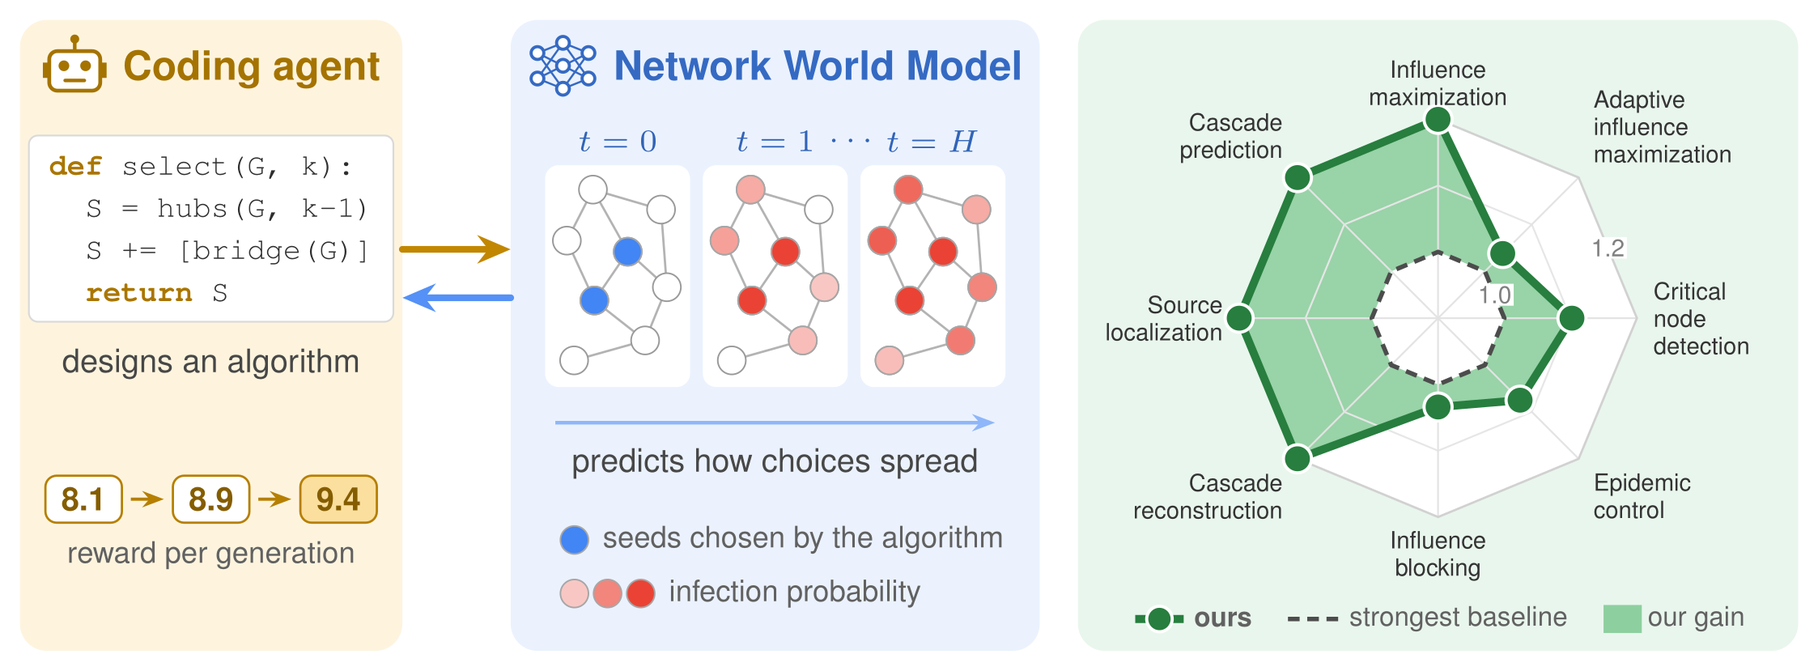
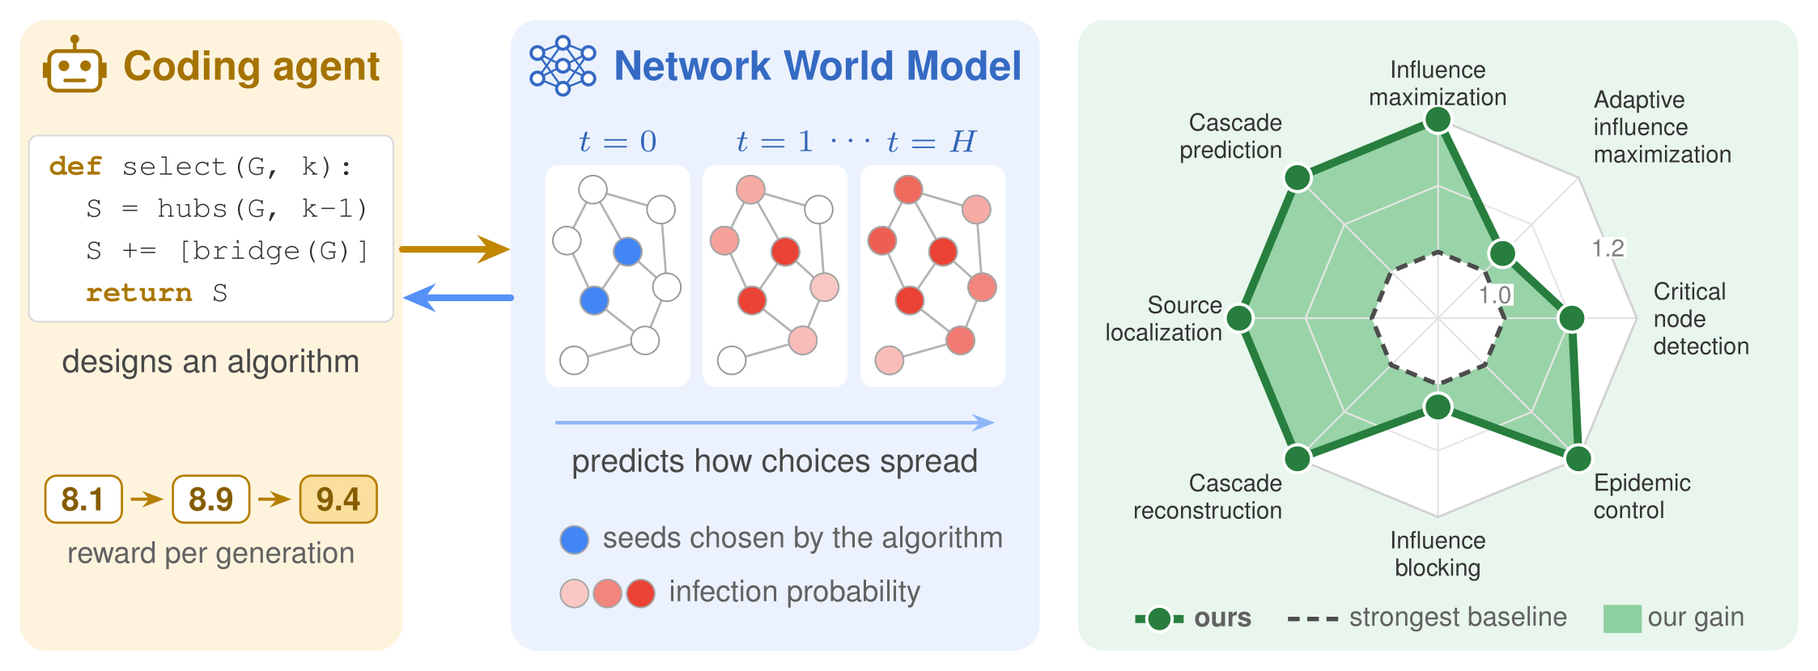
Update

Changed region(s): [[0.7792, 0.4825, 0.8727, 0.6936]]

diff --git a/index.html b/index.html
@@ -101,7 +101,7 @@
     "url": "https://rishabsa.github.io/NetworkWorldModel/",
     "image": "https://rishabsa.github.io/NetworkWorldModel/static/images/social_preview.png",
     "keywords": ["network world models", "automated algorithm design", "network learning", "diffusion dynamics"],
-    "abstract": "World models, which simulate an environment and predict how it changes under actions, are increasingly used in real-world applications such as robotics. Complex systems call for the same tool because the effect of an action is not immediate. Seeding nodes for a campaign, or immunizing nodes against an epidemic, changes little on its own; what matters is the outcome that unfolds over the steps that follow. Designing an algorithm that selects such actions to maximize expected performance on a task is inherently iterative, and every candidate must be scored by the outcome it produces. Obtaining that outcome has relied on simulation, whose cost becomes a bottleneck when candidates are evaluated over many sampled trajectories. We propose an action-conditioned Network World Model that learns a network's diffusion dynamics under interventions over time, applies each action to the network, and predicts the outcome that follows. It serves as a fast evaluator inside an algorithm design loop in which a coding agent designs and refines executable algorithms using feedback from full rollouts, action-level credit, and counterfactual probes over alternative interventions. Across eight network tasks and five diffusion models, the designed algorithms match or exceed the strongest reported baseline in 118 of 121 settings while enabling up to 14.5 times faster rollouts than Monte Carlo simulation.",
+    "abstract": "World models, which simulate an environment and predict how it changes under actions, are increasingly used in real-world applications such as robotics. Complex systems call for the same tool because the effect of an action is not immediate. Seeding nodes for a campaign, or immunizing nodes against an epidemic, changes little on its own; what matters is the outcome that unfolds over the steps that follow. Designing an algorithm that selects such actions to maximize expected performance on a task is inherently iterative, and every candidate must be scored by the outcome it produces. Obtaining that outcome has relied on simulation, whose cost becomes a bottleneck when candidates are evaluated over many sampled trajectories. We propose an action-conditioned Network World Model that learns a network's diffusion dynamics under interventions over time, applies each action to the network, and predicts the outcome that follows. It serves as a fast evaluator inside an algorithm design loop in which a coding agent designs and refines executable algorithms using feedback from full rollouts, action-level credit, and counterfactual probes over alternative interventions. Across eight network tasks and five diffusion models, the designed algorithms match or exceed the strongest reported baseline in 138 of 141 settings while enabling up to 14.5 times faster rollouts than Monte Carlo simulation.",
     "isAccessibleForFree": true
   }
   </script>
@@ -201,7 +201,7 @@
         <div class="column is-four-fifths">
           <h2 class="title is-3">Abstract</h2>
           <div class="content has-text-justified">
-            <p>World models, which simulate an environment and predict how it changes under actions, are increasingly used in real-world applications such as robotics. Complex systems call for the same tool because the effect of an action is not immediate. Seeding nodes for a campaign, or immunizing nodes against an epidemic, changes little on its own; what matters is the outcome that unfolds over the steps that follow. Designing an algorithm that selects such actions to maximize expected performance on a task is inherently iterative, and every candidate must be scored by the outcome it produces. Obtaining that outcome has relied on simulation, whose cost becomes a bottleneck when candidates are evaluated over many sampled trajectories. We propose an action-conditioned Network World Model that learns a network's diffusion dynamics under interventions over time, applies each action to the network, and predicts the outcome that follows. It serves as a fast evaluator inside an algorithm design loop in which a coding agent designs and refines executable algorithms using feedback from full rollouts, action-level credit, and counterfactual probes over alternative interventions. Across eight network tasks and five diffusion models, the designed algorithms match or exceed the strongest reported baseline in 118 of 121 settings while enabling up to 14.5 times faster rollouts than Monte Carlo simulation.</p>
+            <p>World models, which simulate an environment and predict how it changes under actions, are increasingly used in real-world applications such as robotics. Complex systems call for the same tool because the effect of an action is not immediate. Seeding nodes for a campaign, or immunizing nodes against an epidemic, changes little on its own; what matters is the outcome that unfolds over the steps that follow. Designing an algorithm that selects such actions to maximize expected performance on a task is inherently iterative, and every candidate must be scored by the outcome it produces. Obtaining that outcome has relied on simulation, whose cost becomes a bottleneck when candidates are evaluated over many sampled trajectories. We propose an action-conditioned Network World Model that learns a network's diffusion dynamics under interventions over time, applies each action to the network, and predicts the outcome that follows. It serves as a fast evaluator inside an algorithm design loop in which a coding agent designs and refines executable algorithms using feedback from full rollouts, action-level credit, and counterfactual probes over alternative interventions. Across eight network tasks and five diffusion models, the designed algorithms match or exceed the strongest reported baseline in 138 of 141 settings while enabling up to 14.5 times faster rollouts than Monte Carlo simulation.</p>
           </div>
         </div>
       </div>
@@ -215,7 +215,7 @@
       <h2 class="title is-3 has-text-centered">Key Results</h2>
       <div class="stat-grid">
         <div class="stat-card">
-          <div class="stat-value">118<span class="stat-of">/121</span></div>
+          <div class="stat-value">138<span class="stat-of">/141</span></div>
           <div class="stat-label">settings where the designed algorithm matches or exceeds the strongest reported baseline</div>
         </div>
         <div class="stat-card">
@@ -384,7 +384,7 @@
       </div>
 
       <details class="datasets-details">
-        <summary>Datasets: 17 networks, from 1,005 to 616,316 nodes</summary>
+        <summary>Datasets: 20 networks, from 1,005 to 616,316 nodes</summary>
         <div class="table-scroll">
           <table class="results-table datasets-table">
             <thead>
@@ -401,9 +401,12 @@
               <tr><td>PGP</td><td>10,680</td><td>24,316</td><td>Critical node detection</td></tr>
               <tr><td>Infectious SocioPatterns</td><td>10,972</td><td>44,517</td><td>Epidemic control</td></tr>
               <tr><td>NetHEPT</td><td>15,229</td><td>62,752</td><td>Influence maximization, adaptive influence maximization</td></tr>
+              <tr><td>RT-Pol</td><td>18,470</td><td>48,053</td><td>Cascade reconstruction</td></tr>
               <tr><td>Gnutella24</td><td>26,518</td><td>65,369</td><td>Influence blocking</td></tr>
+              <tr><td>Cit-HepTh</td><td>27,769</td><td>352,768</td><td>Influence blocking</td></tr>
               <tr><td>Taoke</td><td>29,711</td><td>95,012</td><td>Cascade prediction</td></tr>
               <tr><td>Deezer</td><td>47,538</td><td>222,887</td><td>Source localization</td></tr>
+              <tr><td>Brightkite</td><td>58,228</td><td>214,078</td><td>Epidemic control</td></tr>
               <tr><td>Gnutella31</td><td>62,561</td><td>147,878</td><td>Critical node detection</td></tr>
               <tr><td>Digg</td><td>116,893</td><td>2,011,447</td><td>Influence maximization, adaptive influence maximization</td></tr>
               <tr><td>Digg (cascades)</td><td>279,630</td><td>1,731,653</td><td>Cascade prediction</td></tr>
@@ -430,7 +433,7 @@
       <h3 class="title is-4 subsection-title">Designed algorithms against the strongest baselines</h3>
       <div class="content">
         <p>
-          The designed algorithms improve on the strongest existing method in seven tasks and match it on epidemic control, matching or exceeding the strongest reported baseline in 118 of 121 settings. Each cell reports IC&nbsp;/&nbsp;LT (IC&nbsp;/&nbsp;CLT for influence blocking, SIR&nbsp;/&nbsp;SIS for epidemic control). Bold marks the best value, and n/a marks an out-of-memory error or a timeout.
+          The designed algorithms improve on the strongest existing method in all eight tasks and match or exceed the strongest reported baseline in 138 of 141 settings. Each cell reports IC&nbsp;/&nbsp;LT (IC&nbsp;/&nbsp;CLT for influence blocking, SIR&nbsp;/&nbsp;SIS for epidemic control). Bold marks the best value, and n/a marks an out-of-memory error or a timeout.
         </p>
       </div>
       <div class="results-tabs">
@@ -524,16 +527,16 @@
   <div class="table-scroll">
     <table class="results-table">
       <thead>
-        <tr><th></th><th colspan="4" class="group-head">Infectious SocioPatterns (10,972 nodes)</th><th colspan="4" class="group-head">Oregon1 (10,670 nodes)</th></tr>
-        <tr><th>Method</th><th>1%</th><th>5%</th><th>10%</th><th>20%</th><th>1%</th><th>5%</th><th>10%</th><th>20%</th></tr>
+        <tr><th></th><th colspan="4" class="group-head">Infectious SocioPatterns (10,972 nodes)</th><th colspan="4" class="group-head">Oregon1 (10,670 nodes)</th><th colspan="4" class="group-head">Brightkite (58,228 nodes)</th></tr>
+        <tr><th>Method</th><th>1%</th><th>5%</th><th>10%</th><th>20%</th><th>1%</th><th>5%</th><th>10%</th><th>20%</th><th>1%</th><th>5%</th><th>10%</th><th>20%</th></tr>
       </thead>
       <tbody>
-        <tr><td>DAVA</td><td><strong>19.9</strong><span class="pair-sep">/</span>23.0</td><td><strong>7.4</strong><span class="pair-sep">/</span>8.3</td><td><strong>1.0</strong><span class="pair-sep">/</span><strong>1.0</strong></td><td><strong>1.0</strong><span class="pair-sep">/</span><strong>1.0</strong></td><td>7.9<span class="pair-sep">/</span>9.6</td><td><strong>1.0</strong><span class="pair-sep">/</span><strong>1.0</strong></td><td><strong>1.0</strong><span class="pair-sep">/</span><strong>1.0</strong></td><td><strong>1.0</strong><span class="pair-sep">/</span><strong>1.0</strong></td></tr>
-        <tr><td>NetShield+</td><td>21.2<span class="pair-sep">/</span>24.9</td><td>17.3<span class="pair-sep">/</span>20.6</td><td>12.8<span class="pair-sep">/</span>15.6</td><td>7.4<span class="pair-sep">/</span>8.9</td><td>4.3<span class="pair-sep">/</span>5.4</td><td>2.1<span class="pair-sep">/</span>2.3</td><td>1.8<span class="pair-sep">/</span>1.9</td><td>1.6<span class="pair-sep">/</span>1.7</td></tr>
-        <tr><td>GreedyWalk</td><td>20.9<span class="pair-sep">/</span>24.6</td><td>16.5<span class="pair-sep">/</span>19.8</td><td>12.3<span class="pair-sep">/</span>14.9</td><td>7.0<span class="pair-sep">/</span>8.5</td><td>4.8<span class="pair-sep">/</span>5.9</td><td>2.5<span class="pair-sep">/</span>2.8</td><td>1.9<span class="pair-sep">/</span>2.1</td><td>1.6<span class="pair-sep">/</span>1.7</td></tr>
-        <tr><td>EI</td><td>20.7<span class="pair-sep">/</span>24.4</td><td>16.3<span class="pair-sep">/</span>19.3</td><td>11.5<span class="pair-sep">/</span>13.6</td><td>8.1<span class="pair-sep">/</span>9.5</td><td>4.2<span class="pair-sep">/</span>5.2</td><td>2.0<span class="pair-sep">/</span>2.1</td><td>1.7<span class="pair-sep">/</span>1.8</td><td>1.6<span class="pair-sep">/</span>1.6</td></tr>
-        <tr><td>CI</td><td>20.7<span class="pair-sep">/</span>24.3</td><td>16.1<span class="pair-sep">/</span>18.9</td><td>12.4<span class="pair-sep">/</span>14.6</td><td>6.9<span class="pair-sep">/</span>8.1</td><td>4.2<span class="pair-sep">/</span>5.2</td><td>2.0<span class="pair-sep">/</span>2.1</td><td>1.7<span class="pair-sep">/</span>1.8</td><td>1.6<span class="pair-sep">/</span>1.6</td></tr>
-        <tr class="ours"><td>Network World Model</td><td>20.4<span class="pair-sep">/</span><strong>19.5</strong></td><td>12.2<span class="pair-sep">/</span><strong>4.1</strong></td><td><strong>1.0</strong><span class="pair-sep">/</span><strong>1.0</strong></td><td><strong>1.0</strong><span class="pair-sep">/</span><strong>1.0</strong></td><td><strong>2.4</strong><span class="pair-sep">/</span><strong>4.3</strong></td><td><strong>1.0</strong><span class="pair-sep">/</span><strong>1.0</strong></td><td><strong>1.0</strong><span class="pair-sep">/</span><strong>1.0</strong></td><td><strong>1.0</strong><span class="pair-sep">/</span><strong>1.0</strong></td></tr>
+        <tr><td>DAVA</td><td><strong>19.9</strong><span class="pair-sep">/</span>23.0</td><td><strong>7.4</strong><span class="pair-sep">/</span>8.3</td><td><strong>1.0</strong><span class="pair-sep">/</span><strong>1.0</strong></td><td><strong>1.0</strong><span class="pair-sep">/</span><strong>1.0</strong></td><td>7.9<span class="pair-sep">/</span>9.6</td><td><strong>1.0</strong><span class="pair-sep">/</span><strong>1.0</strong></td><td><strong>1.0</strong><span class="pair-sep">/</span><strong>1.0</strong></td><td><strong>1.0</strong><span class="pair-sep">/</span><strong>1.0</strong></td><td>40.9<span class="pair-sep">/</span>47.1</td><td><span class="na">n/a</span></td><td><span class="na">n/a</span></td><td><span class="na">n/a</span></td></tr>
+        <tr><td>NetShield+</td><td>21.2<span class="pair-sep">/</span>24.9</td><td>17.3<span class="pair-sep">/</span>20.6</td><td>12.8<span class="pair-sep">/</span>15.6</td><td>7.4<span class="pair-sep">/</span>8.9</td><td>4.3<span class="pair-sep">/</span>5.4</td><td>2.1<span class="pair-sep">/</span>2.3</td><td>1.8<span class="pair-sep">/</span>1.9</td><td>1.6<span class="pair-sep">/</span>1.7</td><td>24.1<span class="pair-sep">/</span>29.4</td><td>8.5<span class="pair-sep">/</span>10.5</td><td>4.5<span class="pair-sep">/</span>5.4</td><td>2.7<span class="pair-sep">/</span>3.0</td></tr>
+        <tr><td>GreedyWalk</td><td>20.9<span class="pair-sep">/</span>24.6</td><td>16.5<span class="pair-sep">/</span>19.8</td><td>12.3<span class="pair-sep">/</span>14.9</td><td>7.0<span class="pair-sep">/</span>8.5</td><td>4.8<span class="pair-sep">/</span>5.9</td><td>2.5<span class="pair-sep">/</span>2.8</td><td>1.9<span class="pair-sep">/</span>2.1</td><td>1.6<span class="pair-sep">/</span>1.7</td><td><strong>23.2</strong><span class="pair-sep">/</span>28.4</td><td>8.4<span class="pair-sep">/</span>10.5</td><td>4.6<span class="pair-sep">/</span>5.5</td><td>2.8<span class="pair-sep">/</span>3.1</td></tr>
+        <tr><td>EI</td><td>20.7<span class="pair-sep">/</span>24.4</td><td>16.3<span class="pair-sep">/</span>19.3</td><td>11.5<span class="pair-sep">/</span>13.6</td><td>8.1<span class="pair-sep">/</span>9.5</td><td>4.2<span class="pair-sep">/</span>5.2</td><td>2.0<span class="pair-sep">/</span>2.1</td><td>1.7<span class="pair-sep">/</span>1.8</td><td>1.6<span class="pair-sep">/</span>1.6</td><td>23.5<span class="pair-sep">/</span>28.7</td><td>8.7<span class="pair-sep">/</span>10.9</td><td>4.5<span class="pair-sep">/</span>5.3</td><td>2.8<span class="pair-sep">/</span>3.1</td></tr>
+        <tr><td>CI</td><td>20.7<span class="pair-sep">/</span>24.3</td><td>16.1<span class="pair-sep">/</span>18.9</td><td>12.4<span class="pair-sep">/</span>14.6</td><td>6.9<span class="pair-sep">/</span>8.1</td><td>4.2<span class="pair-sep">/</span>5.2</td><td>2.0<span class="pair-sep">/</span>2.1</td><td>1.7<span class="pair-sep">/</span>1.8</td><td>1.6<span class="pair-sep">/</span>1.6</td><td>26.0<span class="pair-sep">/</span>31.1</td><td>10.2<span class="pair-sep">/</span>12.3</td><td>4.7<span class="pair-sep">/</span>5.5</td><td>2.7<span class="pair-sep">/</span>3.0</td></tr>
+        <tr class="ours"><td>Network World Model</td><td>20.4<span class="pair-sep">/</span><strong>19.5</strong></td><td>12.2<span class="pair-sep">/</span><strong>4.1</strong></td><td><strong>1.0</strong><span class="pair-sep">/</span><strong>1.0</strong></td><td><strong>1.0</strong><span class="pair-sep">/</span><strong>1.0</strong></td><td><strong>2.4</strong><span class="pair-sep">/</span><strong>4.3</strong></td><td><strong>1.0</strong><span class="pair-sep">/</span><strong>1.0</strong></td><td><strong>1.0</strong><span class="pair-sep">/</span><strong>1.0</strong></td><td><strong>1.0</strong><span class="pair-sep">/</span><strong>1.0</strong></td><td><strong>23.2</strong><span class="pair-sep">/</span><strong>24.5</strong></td><td><strong>1.4</strong><span class="pair-sep">/</span><strong>1.5</strong></td><td><strong>1.0</strong><span class="pair-sep">/</span><strong>1.0</strong></td><td><strong>1.0</strong><span class="pair-sep">/</span><strong>1.0</strong></td></tr>
       </tbody>
     </table>
   </div>
@@ -561,15 +564,15 @@
   <div class="table-scroll">
     <table class="results-table">
       <thead>
-        <tr><th>Method</th><th>UCI Students (1,266 nodes)</th><th>CA-GrQc (5,242 nodes)</th></tr>
+        <tr><th>Method</th><th>UCI Students (1,266 nodes)</th><th>CA-GrQc (5,242 nodes)</th><th>RT-Pol (18,470 nodes)</th></tr>
       </thead>
       <tbody>
-        <tr><td>Reports</td><td>−0.852<span class="pair-sep">/</span>−0.946</td><td>−0.791<span class="pair-sep">/</span>−0.692</td></tr>
-        <tr><td>Steiner Tree</td><td>−0.901<span class="pair-sep">/</span>−0.978</td><td>−0.798<span class="pair-sep">/</span>−0.753</td></tr>
-        <tr><td>Jordan-Backward</td><td>−0.852<span class="pair-sep">/</span>−0.946</td><td>−0.791<span class="pair-sep">/</span>−0.692</td></tr>
-        <tr><td>DHREC</td><td>−1.464<span class="pair-sep">/</span>−1.525</td><td>−1.175<span class="pair-sep">/</span>−1.176</td></tr>
-        <tr><td>CRI</td><td>−0.885<span class="pair-sep">/</span>−0.995</td><td>−1.106<span class="pair-sep">/</span>−1.151</td></tr>
-        <tr class="ours"><td>Network World Model</td><td><strong>−0.675</strong><span class="pair-sep">/</span><strong>−0.717</strong></td><td><strong>−0.566</strong><span class="pair-sep">/</span><strong>−0.566</strong></td></tr>
+        <tr><td>Reports</td><td>−0.852<span class="pair-sep">/</span>−0.946</td><td>−0.791<span class="pair-sep">/</span>−0.692</td><td>−1.252<span class="pair-sep">/</span>−1.068</td></tr>
+        <tr><td>Steiner Tree</td><td>−0.901<span class="pair-sep">/</span>−0.978</td><td>−0.798<span class="pair-sep">/</span>−0.753</td><td>−2.618<span class="pair-sep">/</span>−2.076</td></tr>
+        <tr><td>Jordan-Backward</td><td>−0.852<span class="pair-sep">/</span>−0.946</td><td>−0.791<span class="pair-sep">/</span>−0.692</td><td>−1.252<span class="pair-sep">/</span>−1.068</td></tr>
+        <tr><td>DHREC</td><td>−1.464<span class="pair-sep">/</span>−1.525</td><td>−1.175<span class="pair-sep">/</span>−1.176</td><td>−2.471<span class="pair-sep">/</span>−2.594</td></tr>
+        <tr><td>CRI</td><td>−0.885<span class="pair-sep">/</span>−0.995</td><td>−1.106<span class="pair-sep">/</span>−1.151</td><td>−0.785<span class="pair-sep">/</span>−0.782</td></tr>
+        <tr class="ours"><td>Network World Model</td><td><strong>−0.675</strong><span class="pair-sep">/</span><strong>−0.717</strong></td><td><strong>−0.566</strong><span class="pair-sep">/</span><strong>−0.566</strong></td><td><strong>−0.391</strong><span class="pair-sep">/</span><strong>−0.373</strong></td></tr>
       </tbody>
     </table>
   </div>

diff --git a/README.md b/README.md
@@ -23,11 +23,11 @@
 
 ## Abstract
 
-World models, which simulate an environment and predict how it changes under actions, are increasingly used in real-world applications such as robotics. Complex systems call for the same tool because the effect of an action is not immediate. Seeding nodes for a campaign, or immunizing nodes against an epidemic, changes little on its own; what matters is the outcome that unfolds over the steps that follow. Designing an algorithm that selects such actions to maximize expected performance on a task is inherently iterative, and every candidate must be scored by the outcome it produces. Obtaining that outcome has relied on simulation, whose cost becomes a bottleneck when candidates are evaluated over many sampled trajectories. We propose an action-conditioned Network World Model that learns a network's diffusion dynamics under interventions over time, applies each action to the network, and predicts the outcome that follows. It serves as a fast evaluator inside an algorithm design loop in which a coding agent designs and refines executable algorithms using feedback from full rollouts, action-level credit, and counterfactual probes over alternative interventions. Across eight network tasks and five diffusion models, the designed algorithms match or exceed the strongest reported baseline in 118 of 121 settings while enabling up to 14.5 times faster rollouts than Monte Carlo simulation.
+World models, which simulate an environment and predict how it changes under actions, are increasingly used in real-world applications such as robotics. Complex systems call for the same tool because the effect of an action is not immediate. Seeding nodes for a campaign, or immunizing nodes against an epidemic, changes little on its own; what matters is the outcome that unfolds over the steps that follow. Designing an algorithm that selects such actions to maximize expected performance on a task is inherently iterative, and every candidate must be scored by the outcome it produces. Obtaining that outcome has relied on simulation, whose cost becomes a bottleneck when candidates are evaluated over many sampled trajectories. We propose an action-conditioned Network World Model that learns a network's diffusion dynamics under interventions over time, applies each action to the network, and predicts the outcome that follows. It serves as a fast evaluator inside an algorithm design loop in which a coding agent designs and refines executable algorithms using feedback from full rollouts, action-level credit, and counterfactual probes over alternative interventions. Across eight network tasks and five diffusion models, the designed algorithms match or exceed the strongest reported baseline in 138 of 141 settings while enabling up to 14.5 times faster rollouts than Monte Carlo simulation.
 
 ## Key Results
 
-- **118 of 121 settings**: the designed algorithms match or exceed the strongest reported baseline across eight tasks and five diffusion models.
+- **138 of 141 settings**: the designed algorithms match or exceed the strongest reported baseline across eight tasks and five diffusion models.
 - **14.5&times; faster rollouts** than Monte Carlo simulation on Digg (116,893 nodes), and 4.0&times; on Power Grid. The world model pays for its training data after about five searches.
 - **0.11% selection regret** against Monte Carlo selection on held-out SBM networks, with 90.2% pairwise preference accuracy.
 - **Best at every budget** against four published LLM algorithm discovery systems (EoH, OpenEvolve, LLaMEA, ReEvo) on influence maximization and critical node detection.
@@ -95,7 +95,7 @@ Every returned algorithm and every baseline is replayed independently on the tru
 
 ### Designed algorithms against the strongest baselines
 
-The designed algorithms improve on the strongest existing method in seven tasks and match it on epidemic control. Each cell reports IC / LT (IC / CLT for influence blocking, SIR / SIS for epidemic control). Bold marks the best value, and n/a marks an out-of-memory error or a timeout. Expand a task to see its table.
+The designed algorithms improve on the strongest existing method in all eight tasks and match or exceed the strongest reported baseline in 138 of 141 settings. Each cell reports IC / LT (IC / CLT for influence blocking, SIR / SIS for epidemic control). Bold marks the best value, and n/a marks an out-of-memory error or a timeout. Expand a task to see its table.
 
 <details>
 <summary><b>Influence maximization</b> (IC / LT): spread, % of nodes activated (↑)</summary>
@@ -228,6 +228,17 @@ The designed algorithms improve on the strongest existing method in seven tasks 
 | CI | 4.2 / 5.2 | 2.0 / 2.1 | 1.7 / 1.8 | 1.6 / 1.6 |
 | **Network World Model** | **2.4** / **4.3** | **1.0** / **1.0** | **1.0** / **1.0** | **1.0** / **1.0** |
 
+**Brightkite (58,228 nodes)**
+
+| Method | 1% | 5% | 10% | 20% |
+| --- | :---: | :---: | :---: | :---: |
+| DAVA | 40.9 / 47.1 | n/a | n/a | n/a |
+| NetShield+ | 24.1 / 29.4 | 8.5 / 10.5 | 4.5 / 5.4 | 2.7 / 3.0 |
+| GreedyWalk | **23.2** / 28.4 | 8.4 / 10.5 | 4.6 / 5.5 | 2.8 / 3.1 |
+| EI | 23.5 / 28.7 | 8.7 / 10.9 | 4.5 / 5.3 | 2.8 / 3.1 |
+| CI | 26.0 / 31.1 | 10.2 / 12.3 | 4.7 / 5.5 | 2.7 / 3.0 |
+| **Network World Model** | **23.2** / **24.5** | **1.4** / **1.5** | **1.0** / **1.0** | **1.0** / **1.0** |
+
 </details>
 
 <details>
@@ -247,14 +258,14 @@ The designed algorithms improve on the strongest existing method in seven tasks 
 <details>
 <summary><b>Cascade reconstruction</b> (IC / LT): referee reward of the decoded history, 0 is perfect (↑)</summary>
 
-| Method | UCI Students (1,266 nodes) | CA-GrQc (5,242 nodes) |
-| --- | :---: | :---: |
-| Reports | −0.852 / −0.946 | −0.791 / −0.692 |
-| Steiner Tree | −0.901 / −0.978 | −0.798 / −0.753 |
-| Jordan-Backward | −0.852 / −0.946 | −0.791 / −0.692 |
-| DHREC | −1.464 / −1.525 | −1.175 / −1.176 |
-| CRI | −0.885 / −0.995 | −1.106 / −1.151 |
-| **Network World Model** | **−0.675** / **−0.717** | **−0.566** / **−0.566** |
+| Method | UCI Students (1,266 nodes) | CA-GrQc (5,242 nodes) | RT-Pol (18,470 nodes) |
+| --- | :---: | :---: | :---: |
+| Reports | −0.852 / −0.946 | −0.791 / −0.692 | −1.252 / −1.068 |
+| Steiner Tree | −0.901 / −0.978 | −0.798 / −0.753 | −2.618 / −2.076 |
+| Jordan-Backward | −0.852 / −0.946 | −0.791 / −0.692 | −1.252 / −1.068 |
+| DHREC | −1.464 / −1.525 | −1.175 / −1.176 | −2.471 / −2.594 |
+| CRI | −0.885 / −0.995 | −1.106 / −1.151 | −0.785 / −0.782 |
+| **Network World Model** | **−0.675** / **−0.717** | **−0.566** / **−0.566** | **−0.391** / **−0.373** |
 
 </details>
 
@@ -357,9 +368,12 @@ The datasets used in the experiments, ordered by node count. Directed networks q
 | PGP | `pgp` | 10,680 | 24,316 | Critical node detection |
 | Infectious SocioPatterns | `infectious_sociopatterns` | 10,972 | 44,517 | Epidemic control |
 | NetHEPT | `nethept` | 15,229 | 62,752 | Influence maximization, adaptive influence maximization |
+| RT-Pol | `rt_pol` | 18,470 | 48,053 | Cascade reconstruction |
 | Gnutella24 | `p2p_gnutella24` | 26,518 | 65,369 | Influence blocking |
+| Cit-HepTh | `cit_hepth` | 27,769 | 352,768 | Influence blocking |
 | Taoke | `taoke` | 29,711 | 95,012 | Cascade prediction |
 | Deezer | `deezer` | 47,538 | 222,887 | Source localization |
+| Brightkite | `brightkite` | 58,228 | 214,078 | Epidemic control |
 | Gnutella31 | `p2p_gnutella` | 62,561 | 147,878 | Critical node detection |
 | Digg | `digg` | 116,893 | 2,011,447 | Influence maximization, adaptive influence maximization |
 | Digg (cascades) | `digg_cascades` | 279,630 | 1,731,653 | Cascade prediction |
